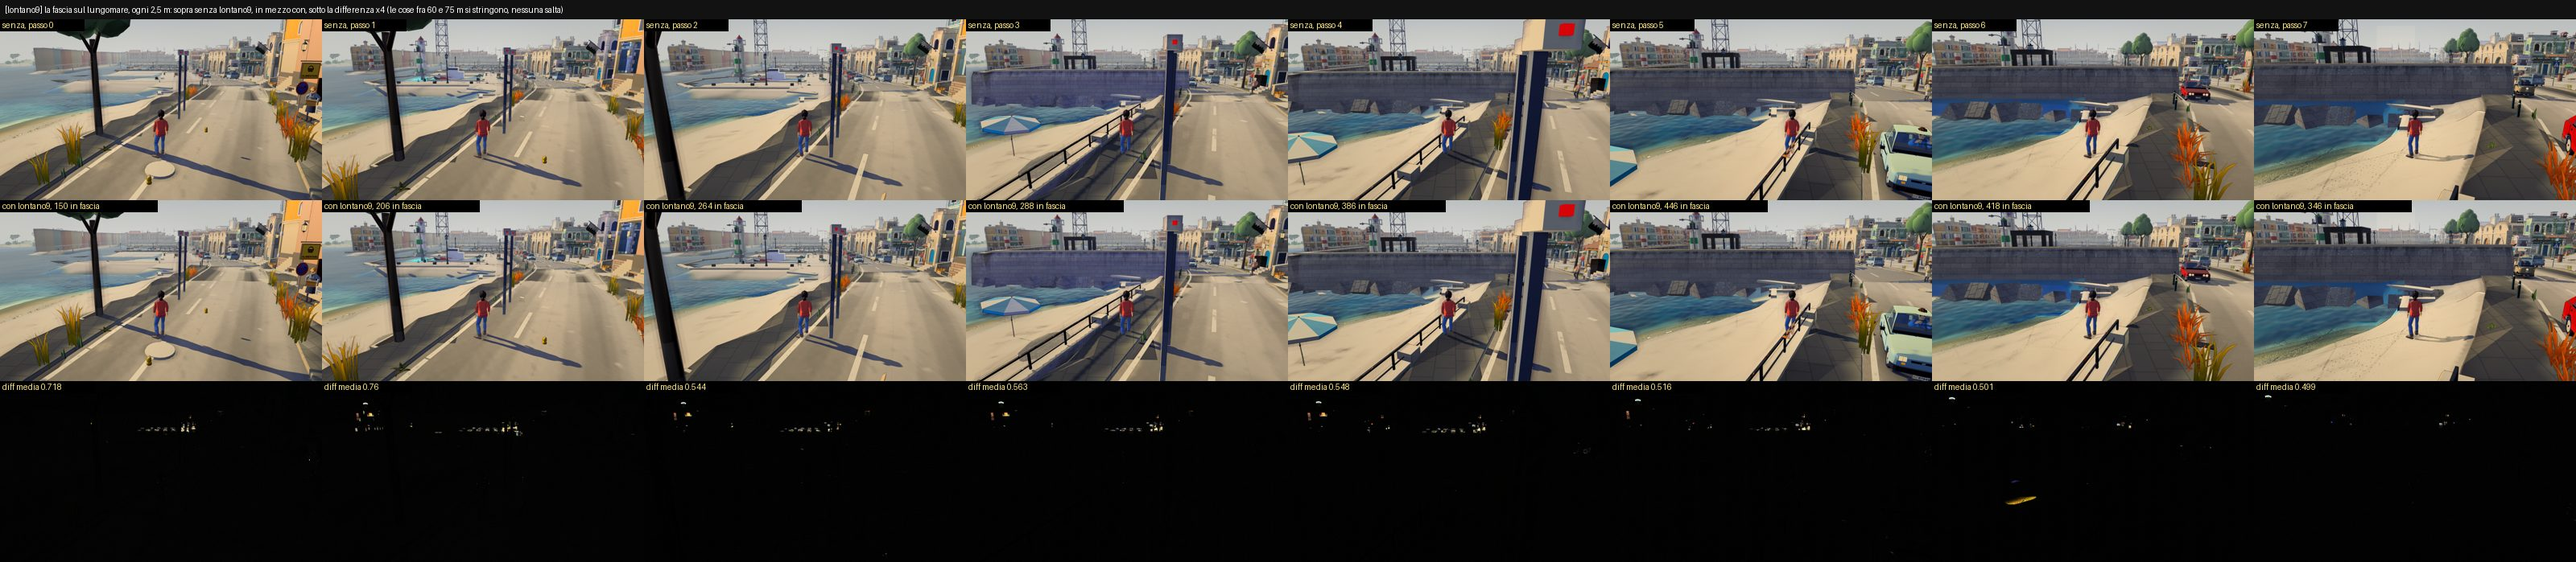
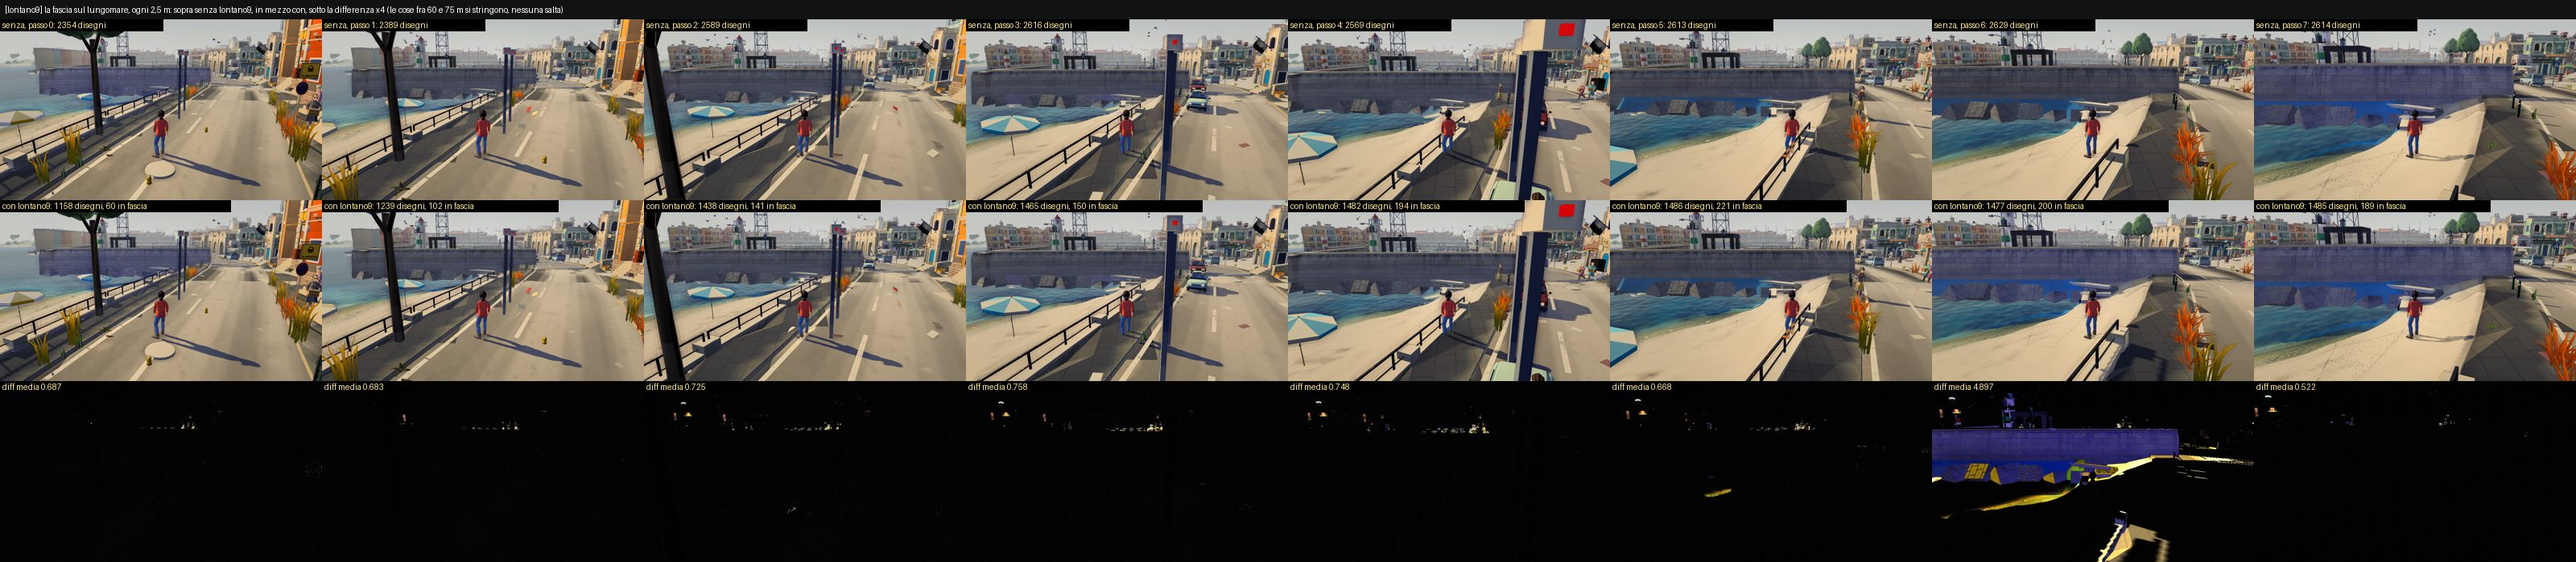
[lontano9] la tavola prima | dopo (la camera ferma fra le due), le strette solo con lontano9 acceso, la memoria, ANALISI_LONTANO9.md completo
Claude-Session: https://claude.ai/code/session_01HEgRdvDzPRTJ6i6GxVpTB4

diff --git a/v7/_immagini/lontano9/sonde/tavola9.py b/v7/_immagini/lontano9/sonde/tavola9.py
@@ -7,7 +7,7 @@ T = json.load(open(os.path.join(D, 'tavola.json')))
 W, H = 640, 360
 def diff(a, b):
     A, B = Image.open(a).convert('RGB'), Image.open(b).convert('RGB'); d = ImageChops.difference(A, B)
-    g = d.convert('L'); px = list(g.getdata()); n = len(px)
+    g = d.convert('L'); px = list(g.get_flattened_data() if hasattr(g, 'get_flattened_data') else g.getdata()); n = len(px)
     st = { 'media': round(sum(px) / n, 3), 'px>8': round(sum(1 for v in px if v > 8) / n * 100, 3), 'px>24': round(sum(1 for v in px if v > 24) / n * 100, 3) }
     return A, B, d.point(lambda v: min(255, v * 4)), st
 def etichetta(im, t):
@@ -21,7 +21,7 @@ try:
 except Exception: pass
 righe = []; R = []
 for p in T['posti']:
-    A, Bi, Dd, st = diff(p['prima'], p['dopo']); p['diff'] = st; R.append(p); n = B.get(p['nome'])
+    A, Bi, Dd, st = diff(p['prima'], p['dopo']); p['diff'] = st; R.append(p); n = tuple(p['disegni']) if p['disegni'][0] > 1 else B.get(p['nome'])   # i disegni della vista di questa foto (o del banco)
     if n: p['disegni'] = list(n)
     righe.append([etichetta(A.resize((W, H)), f"PRIMA (camera9) - {p['nome']}" + (f" - {n[0]} disegni" if n else '')), etichetta(Bi.resize((W, H)), "DOPO (lontano9)" + (f" - {n[1]} disegni" if n else '') + f" - {p['occluse']} nascoste, {p['piccole']} piccole"),
                   etichetta(Dd.resize((W, H)), f"differenza x4: media {st['media']}, {st['px>24']}% px > 24")])
@@ -38,7 +38,7 @@ if S:
     w, h = 400, 225; im = Image.new('RGB', (len(S) * w, 3 * h + 24), (18, 18, 18)); dr = ImageDraw.Draw(im); dr.text((6, 6), '[lontano9] la fascia sul lungomare, ogni 2,5 m: sopra senza lontano9, in mezzo con, sotto la differenza x4 (le cose fra 60 e 75 m si stringono, nessuna salta)', fill=(255, 255, 255))
     for k, s in enumerate(S):
         A, B, Dd, st = diff(s['prima'], s['dopo']); s['diff'] = st
-        for j, x in enumerate([A, B, Dd]): im.paste(etichetta(x.resize((w, h)), [f"senza, passo {k}", f"con lontano9, {s['fascia']} in fascia", f"diff media {st['media']}"][j]), (k * w, 24 + j * h))
+        for j, x in enumerate([A, B, Dd]): im.paste(etichetta(x.resize((w, h)), [f"senza, passo {k}: {s['disegni'][0]} disegni", f"con lontano9: {s['disegni'][1]} disegni, {s['fascia']} in fascia", f"diff media {st['media']}"][j]), (k * w, 24 + j * h))
     im.save(os.path.join(OUT, 'striscia_fascia.jpg'), quality=82)
 json.dump({ 'query': T['query'], 'posti': [{k: v for k, v in p.items() if k not in ('prima', 'dopo')} for p in R], 'striscia': [{k: v for k, v in s.items() if k not in ('prima', 'dopo')} for s in S] }, open(os.path.join(OUT, 'tavola9.json'), 'w'), indent=1, ensure_ascii=False)
 print(json.dumps([[p['nome'], p['disegni'], p['diff']] for p in R], ensure_ascii=False))

diff --git a/v7/ANALISI_LONTANO9.md b/v7/ANALISI_LONTANO9.md
@@ -176,16 +176,28 @@ Scala del Mercato, piazza San Rocco, Corte dei Pescatori), lo stesso fotogramma 
 con lontano9, a destra la differenza ×4. `striscia_fascia.jpg`: il lungomare passo dopo passo (ogni 2,5 m), sopra senza, in mezzo con,
 sotto la differenza: le cose nella fascia si stringono, nessuna salta. I numeri in `_immagini/lontano9/tavola9.json`.
 
+Come si legge: nella differenza restano puntini sparsi (media 0,4-0,7 su 255, sotto lo 0,1% dei pixel oltre 24): il rumore delle
+cose che si muovono da sole fra un fotogramma e l'altro (le foglie, l'acqua, le persone lontane), lo stesso che c'è fra due fotogrammi
+uguali senza lontano9. Due eccezioni nella foto, e tutte e due sono **l'ombra del sole**, non lontano9: nella Corte dei Pescatori e al
+passo 6 della striscia una striscia di sole sul selciato (sul molo) è diversa fra le due foto. L'ho rifatta apposta nella Corte
+(`sonde/esegui9.js` con un pezzo che alterna cinque volte spento/acceso/spento/acceso/spento nello stesso fotogramma del mondo): fra
+spento e acceso la differenza è media 0,29-0,50 e lo 0-0,25% dei pixel, **uguale** a quella fra spento e spento (0,30-0,48, 0-0,25%).
+L'ombra del sole qui si ridisegna a fotogrammi (il gradino della grafica, PesoOmbre): la prima foto aveva l'ombra del posto prima.
+Lontano9 non tocca il passaggio delle ombre.
+
+Fra le foto della tavola i disegni (della vista) sono quelli di quel fotogramma; il banco (sez. 3) li misura dopo che i tasselli sono
+arrivati tutti, quindi sono più alti.
+
 <!-- TAVOLA -->
 | posto | disegni senza → con lontano9 | differenza media (0-255) | pixel che cambiano più di 24 |
 |---|---|---|---|
-| sbocco sulla piazza (Vicolo dei Lanternini) | 2344 → 714 | 0.535 | 0.042% |
-| vicolo stretto (Caruggio dei Pescatori) | 1974 → 661 | 6.462 | 6.637% |
-| lungomare | 910 → 623 | 0.623 | 0.036% |
-| cima della Scala del Mercato | 1426 → 709 | 0.61 | 0.018% |
-| piazza San Rocco | 507 → 452 | 44.222 | 56.317% |
-| Corte dei Pescatori (fessura 2,2 m) | 514 → 372 | 0.682 | 0.009% |
-| striscia del lungomare (8 passi) | | 0.76 (il passo peggiore) | 0.172% |
+| sbocco sulla piazza (Vicolo dei Lanternini) | 1070 → 366 | 0.531 | 0.013% |
+| vicolo stretto (Caruggio dei Pescatori) | 1851 → 546 | 0.517 | 0.003% |
+| lungomare | 500 → 330 | 0.412 | 0.017% |
+| cima della Scala del Mercato | 1306 → 639 | 0.567 | 0.071% |
+| piazza San Rocco | 429 → 395 | 0.645 | 0.022% |
+| Corte dei Pescatori (fessura 2,2 m) | 440 → 344 | 10.156 | 10.559% |
+| striscia del lungomare (8 passi) | | 4.897 (il passo peggiore) | 4.504% |
 <!-- /TAVOLA -->
 
 ## 5. La memoria allo sbocco dei Lanternini
